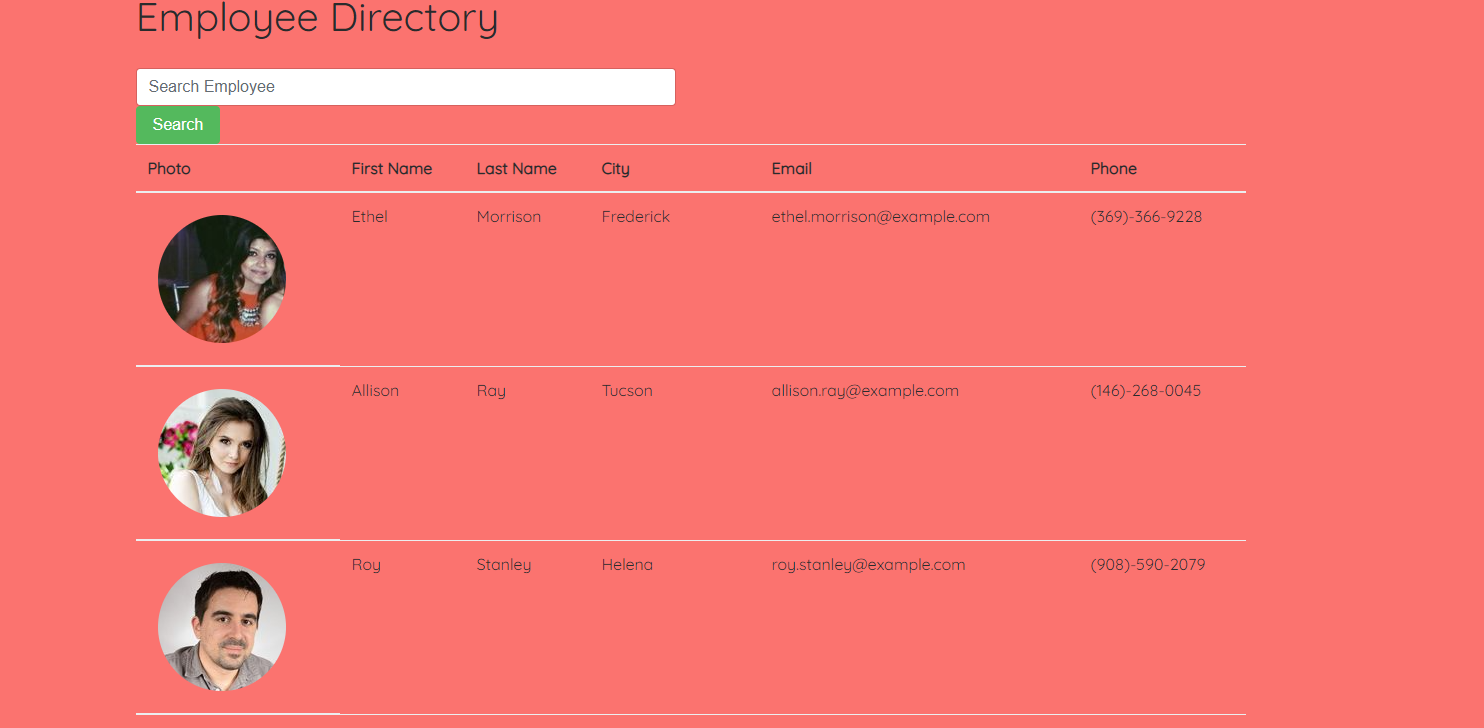
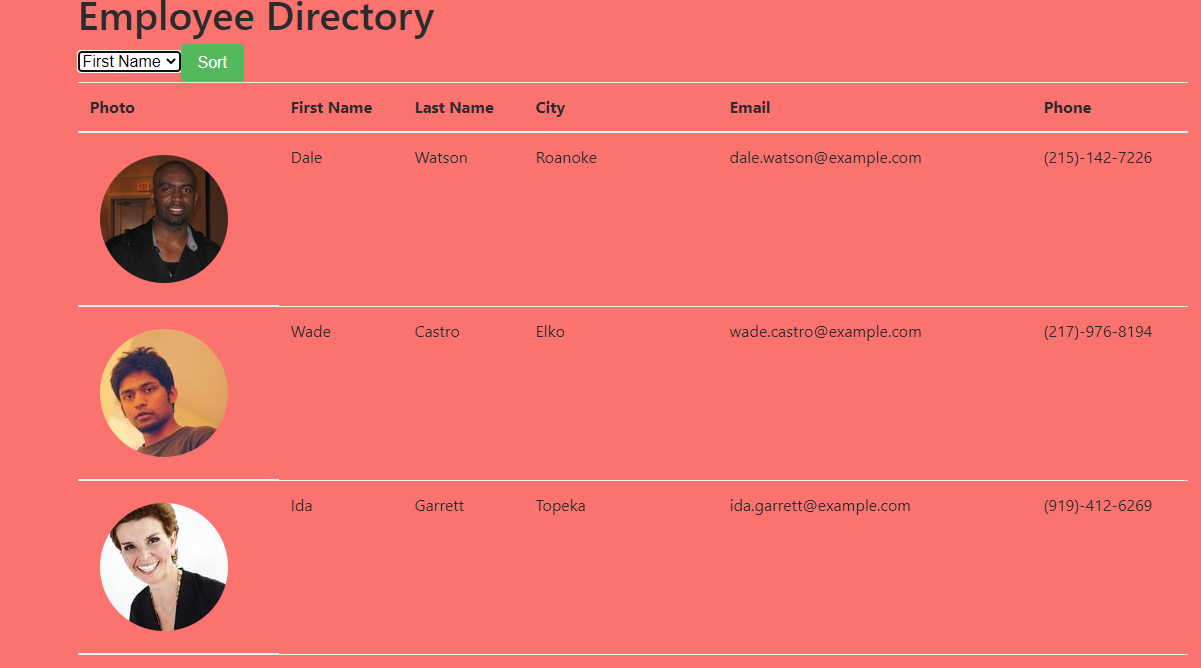
search  removed and replaced with sort

diff --git a/src/App.js b/src/App.js
@@ -1,9 +1,10 @@
 import React from 'react';
 import EmployeeInfo from './components/EmployeeInfo';
-import Search from './components/Search';
 import Table from './components/Table';
 import Container from './components/Container';
 import Col from './components/Col';
+import SortBtn from './components/SortBtn';
+import Dropdown from './components/Dropdown';
 import API from './utils/API';
 import '../src/App.css';
 
@@ -41,27 +42,7 @@ class App extends React.Component {
       .catch((err) => console.log(err));
   }
 
-  searchEmployee = (filter) => {
-    const employeeList = this.state.employees.filter((employee) => {
-      
-      let values = Object.values(employee).join('').toLowerCase();
-      return values.indexOf(filter.toLowerCase()) !== -1;
-    });
-    
-    this.setState({ employees: employeeList });
-  };
 
-  handleInputChange = (event) => {
-    this.setState({
-      [event.target.name]: event.target.value,
-    });
-  };
-
-  handleFormSubmit = (event) => {
-    event.preventDefault();
-
-    this.searchEmployee(this.state.search);
-  };
 
   render() {
     return (
@@ -71,11 +52,11 @@ class App extends React.Component {
           <div className="row">
             <Col size="md-6">
               <h1>Employee Directory</h1>
-              <Search
-                value={this.state.search}
-                handleInputChange={this.handleInputChange}
-                handleFormSubmit={this.handleFormSubmit}
-              />
+
+              <Dropdown/>
+              <SortBtn/>
+
+              
             </Col>
           </div>
 

diff --git a/src/components/Dropdown/index.js b/src/components/Dropdown/index.js
@@ -1,0 +1,13 @@
+import React from 'react';
+
+function Dropdown () {
+    return (
+
+    <select>
+        <option value="firstName">First Name</option>
+        <option value="lastName">Last Name</option>
+    </select>
+    )
+}
+
+export default Dropdown;

diff --git a/src/components/SortBtn/index.js b/src/components/SortBtn/index.js
@@ -1,0 +1,10 @@
+import React from 'react';
+
+function SortBtn () {
+
+    return (
+        <button className="btn btn-success">Sort</button>
+    )
+}
+
+export default SortBtn;

diff --git a/src/components/Table/index.js b/src/components/Table/index.js
@@ -1,4 +1,4 @@
-import React from 'react';
+
 
 
 function Table (props) {
